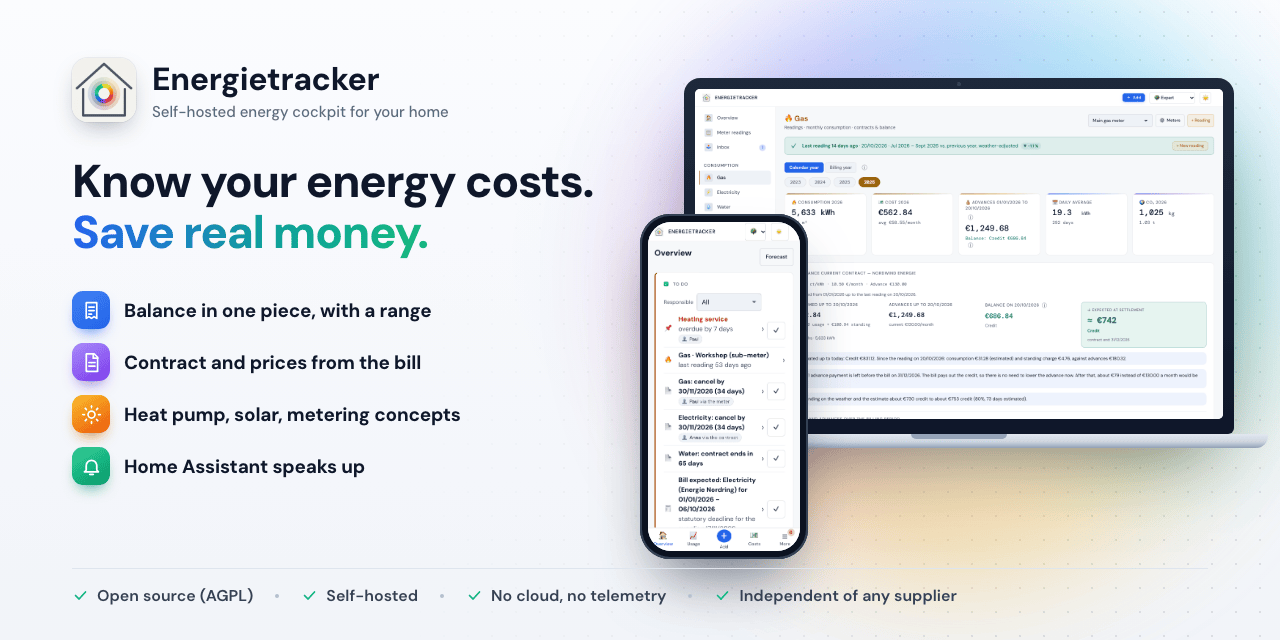
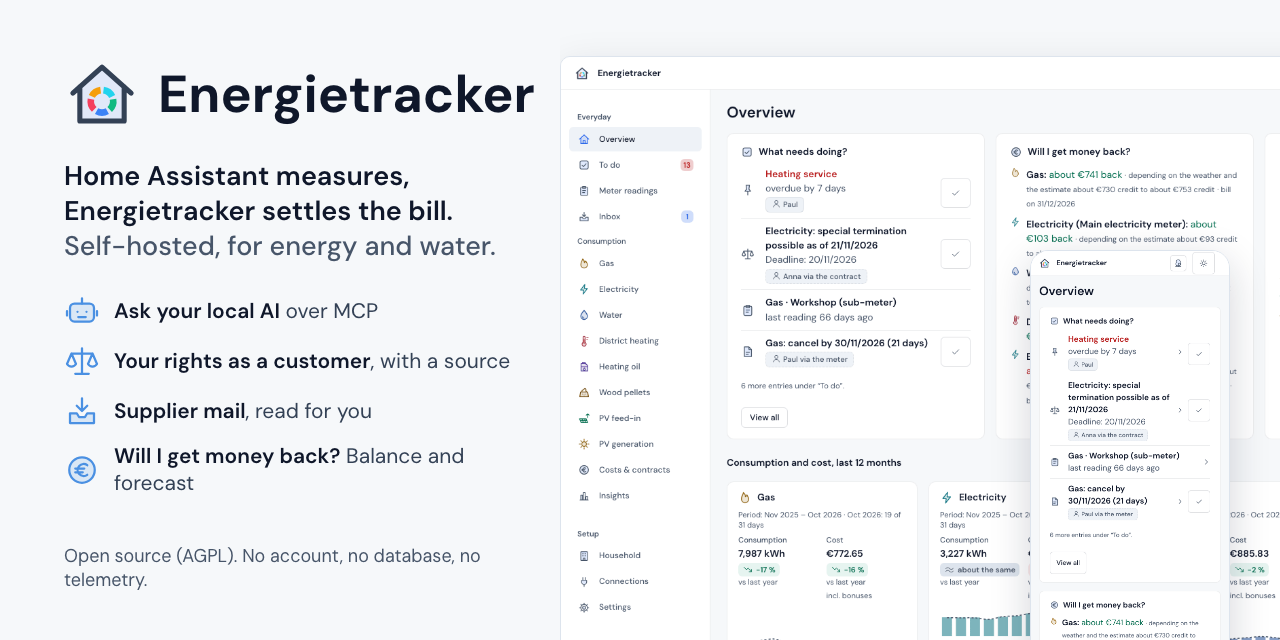
Nachlese 3.12.0: Social Preview aus M6, PHP 8.3 in Webserver und Tests, Version in SECURITY
- Social Preview: neue Vorlage und neues Bild (KI, Rechte, Post, Saldo), das alte zeigte noch Emoji-Menü
- Webserver und Tests nennen PHP 8.3 als Mindestversion und die CI mit 8.3 bis 8.5
- SECURITY: Version unten links in der Seitenleiste, englischer Teil verlinkt CHANGELOG.en.md
- README: iPhone-Bild auch dunkel, Bug-Vorlage mit 3.12.0, Banner nur noch für Beiträge
- CHANGELOG 3.12.0: Überschrift ohne Warnzeichen, Zeitreise ohne internen Skriptnamen

diff --git a/docs/assets/promo/social-preview.html b/docs/assets/promo/social-preview.html
@@ -2,175 +2,78 @@
 <html lang="en">
 <head>
 <meta charset="UTF-8">
-<title>Energietracker · Social preview</title>
+<title>Energietracker social preview</title>
 <!--
-  Social-Preview für GitHub (genau 1280 × 640 px, Settings → General →
-  Social preview; dort von Hand hochladen). Variante des Banners promo.html
-  mit weniger Text, damit sie auch klein lesbar bleibt.
-  Englisch ist Vorgabe, ?lang=de schaltet Texte und Bilder auf Deutsch.
-  Aufnahme: docs/entwicklung/screenshots.md → „Werbebilder“.
+  Social Preview für GitHub (seit v3.12.0), genau 1280 × 640 px; daraus entsteht social-preview.png,
+  das unter Settings › Social preview von Hand hochgeladen wird.
+  Eigene Grafiken: Logo (tools/build-logo.mjs), Symbole aus der App (icons/), Bild der neuen Übersicht
+  aus dem Beispielhaushalt (screens/). Keine Pillen, keine Verläufe, eine Schrift (DM Sans).
+  ?lang=de schaltet auf Deutsch (für Beiträge außerhalb von GitHub). Pfade relativ zu diesem Ordner.
 -->
 <style>
-  @font-face {
-    font-family: 'DM Sans';
-    font-style: normal;
-    font-weight: 100 1000;
-    src: url(../../../public/vendor/fonts/dm-sans.woff2) format('woff2');
-  }
-  :root {
-    --ink:    #0f172a;
-    --ink-2:  #334155;
-    --muted:  #5b6b82;
-    --paper:  #f6f8fa;
-    --line:   #dde4ed;
-    --gas:    #f59e0b;
-    --strom:  #22d3ee;
-    --wasser: #3b82f6;
-    --waerme: #f43f5e;
-    --oel:    #8b5cf6;
-    --pv:     #10b981;
-    --sonne:  #fbbf24;
-  }
+  @font-face { font-family: 'DM Sans'; font-weight: 100 1000; src: url(../../../public/vendor/fonts/dm-sans.woff2) format('woff2'); }
+  :root { --ink: #0f172a; --ink-2: #334155; --muted: #475569; --paper: #f6f8fa; --card: #ffffff; --line: #dde4ed; --accent: #2563eb; }
   * { margin: 0; padding: 0; box-sizing: border-box; }
   html, body { width: 1280px; height: 640px; overflow: hidden; }
-  body {
-    font-family: 'DM Sans', -apple-system, 'Segoe UI', Roboto, sans-serif;
-    color: var(--ink); background: var(--paper);
-    -webkit-font-smoothing: antialiased;
-  }
-  .banner {
-    position: relative; width: 1280px; height: 640px; overflow: hidden;
-    background:
-      radial-gradient(800px 520px at 78% 40%, rgba(37, 99, 235, .10), transparent 62%),
-      linear-gradient(180deg, #fbfcfe 0%, #f1f4f9 100%);
-  }
-  .dots {
-    position: absolute; inset: 0;
-    background-image: radial-gradient(rgba(15, 23, 42, .10) 1.2px, transparent 1.3px);
-    background-size: 24px 24px;
-    -webkit-mask-image: linear-gradient(90deg, transparent 32%, #000 78%);
-            mask-image: linear-gradient(90deg, transparent 32%, #000 78%);
-  }
-  .wheel {
-    position: absolute; width: 600px; height: 600px; left: 660px; top: -20px; border-radius: 50%;
-    background: conic-gradient(from 200deg, var(--gas), var(--waerme), var(--oel),
-      var(--wasser), var(--strom), var(--pv), var(--sonne), var(--gas));
-    filter: blur(60px); opacity: .38;
-  }
-  .wheel::after { content: ""; position: absolute; inset: 150px; border-radius: 50%; background: #f4f6fa; }
-
-  .copy { position: absolute; left: 72px; top: 58px; width: 560px; z-index: 5; }
-  .brand { display: flex; align-items: center; gap: 16px; margin-bottom: 34px; }
-  .brand img {
-    width: 64px; height: 64px; border-radius: 16px; display: block;
-    box-shadow: 0 10px 24px -8px rgba(15, 23, 42, .35), 0 0 0 1px rgba(15, 23, 42, .06);
-  }
-  .brand .name { font-size: 32px; font-weight: 750; letter-spacing: -.4px; }
-  .brand .eyebrow { display: block; font-size: 15px; font-weight: 500; color: var(--muted); margin-top: 2px; }
-  h1 { font-size: 46px; line-height: 1.1; font-weight: 800; letter-spacing: -1.4px; margin-bottom: 34px; white-space: nowrap; }
-  h1 .accent {
-    background: linear-gradient(92deg, #2563eb 0%, #0e9f9a 55%, #10b981 100%);
-    -webkit-background-clip: text; background-clip: text; color: transparent;
-  }
-  ul.points { list-style: none; display: grid; grid-template-columns: 1fr; gap: 14px; }
-  ul.points li { display: flex; gap: 14px; align-items: center; font-size: 19px; font-weight: 700; letter-spacing: -.2px; }
-  .ic { flex: 0 0 auto; width: 38px; height: 38px; border-radius: 11px; display: grid; place-items: center; }
-  .ic svg { width: 21px; height: 21px; stroke: #fff; fill: none; stroke-width: 2; stroke-linecap: round; stroke-linejoin: round; }
-  .ic.c1 { background: linear-gradient(150deg, #3b82f6, #2563eb); box-shadow: 0 8px 16px -8px #2563eb; }
-  .ic.c2 { background: linear-gradient(150deg, #34d399, #059669); box-shadow: 0 8px 16px -8px #059669; }
-  .ic.c3 { background: linear-gradient(150deg, #a78bfa, #7c3aed); box-shadow: 0 8px 16px -8px #7c3aed; }
-  .ic.c4 { background: linear-gradient(150deg, #fbbf24, #ea580c); box-shadow: 0 8px 16px -8px #ea580c; }
-
-  .strip {
-    position: absolute; left: 72px; right: 72px; bottom: 34px; z-index: 6;
-    display: flex; align-items: center; gap: 22px;
-    padding-top: 16px; border-top: 1px solid var(--line);
-    font-size: 16px; font-weight: 600; color: var(--ink-2);
-  }
-  .strip .it { display: flex; align-items: center; gap: 8px; white-space: nowrap; }
-  .strip svg { width: 17px; height: 17px; stroke: var(--pv); fill: none; stroke-width: 2.4; stroke-linecap: round; stroke-linejoin: round; }
-  .strip .sep { width: 4px; height: 4px; border-radius: 50%; background: #b8c2d0; }
-
-  .laptop { position: absolute; left: 684px; top: 78px; width: 550px; z-index: 3; }
-  .lid {
-    position: relative; background: linear-gradient(180deg, #1e293b, #0f172a);
-    border-radius: 16px 16px 6px 6px; padding: 11px 11px 15px;
-    box-shadow: 0 40px 70px -26px rgba(15, 23, 42, .55);
-  }
-  .lid::before { content: ""; position: absolute; top: 4px; left: 50%; width: 4px; height: 4px; margin-left: -2px; border-radius: 50%; background: #334155; }
-  .screen { border-radius: 5px; overflow: hidden; aspect-ratio: 16 / 10; background: #fff; }
-  .screen img { width: 100%; height: 100%; object-fit: cover; object-position: top left; display: block; }
-  .base {
-    position: relative; height: 14px; margin: 0 -34px;
-    background: linear-gradient(180deg, #e2e8f0 0%, #cbd5e1 55%, #94a3b8 100%);
-    border-radius: 2px 2px 12px 12px; box-shadow: 0 14px 24px -10px rgba(15, 23, 42, .45);
-  }
-  .base::before { content: ""; position: absolute; top: 0; left: 50%; width: 96px; height: 5px; margin-left: -48px; background: #94a3b8; border-radius: 0 0 6px 6px; }
-  .phone {
-    position: absolute; left: 640px; top: 214px; width: 168px; z-index: 4;
-    background: #0b1220; border-radius: 30px; padding: 8px;
-    box-shadow: 0 34px 60px -20px rgba(15, 23, 42, .6), 0 0 0 2px #334155 inset;
-  }
-  .phone .scr { border-radius: 23px; overflow: hidden; background: #fff; aspect-ratio: 375 / 812; }
-  .phone .scr img { width: 100%; height: 100%; object-fit: cover; object-position: top; display: block; }
+  body { font-family: 'DM Sans', sans-serif; color: var(--ink); background: var(--paper); -webkit-font-smoothing: antialiased; }
+  .wrap { display: grid; grid-template-columns: 560px 1fr; height: 100%; }
+  .left { padding: 56px 40px 48px 64px; display: flex; flex-direction: column; }
+  .brand { display: flex; align-items: center; gap: 18px; }
+  .brand img { width: 76px; height: 76px; }
+  .brand h1 { font-size: 52px; font-weight: 700; letter-spacing: 0; }
+  .claim { margin-top: 26px; font-size: 27px; line-height: 1.3; font-weight: 600; color: var(--ink); }
+  .claim span { color: var(--muted); font-weight: 500; }
+  ul { list-style: none; margin-top: 30px; display: grid; gap: 14px; }
+  li { display: grid; grid-template-columns: 36px 1fr; gap: 14px; align-items: center; font-size: 21px; line-height: 1.25; color: var(--ink-2); }
+  li img { width: 36px; height: 36px; }
+  li b { color: var(--ink); font-weight: 600; }
+  .foot { margin-top: auto; font-size: 18px; color: var(--muted); }
+  .right { position: relative; overflow: hidden; }
+  .shot { position: absolute; left: 0; top: 56px; width: 980px; border: 1px solid var(--line); border-radius: 10px; box-shadow: 0 12px 40px rgba(15, 23, 42, .12); }
+  .phone { position: absolute; left: 470px; top: 250px; width: 200px; border: 1px solid var(--line); border-radius: 18px; box-shadow: 0 12px 40px rgba(15, 23, 42, .18); }
 </style>
 </head>
 <body>
-  <div class="banner">
-    <div class="dots"></div>
-    <div class="wheel"></div>
-    <div class="copy">
-      <div class="brand">
-        <img src="../../../public/img/icon-light-180.png" alt="">
-        <div><span class="name">Energietracker</span><span class="eyebrow" data-t="eyebrow">Self-hosted energy cockpit for your home</span></div>
-      </div>
-      <h1><span data-t="h1a">Know your energy costs.</span><br><span class="accent" data-t="h1b">Save real money.</span></h1>
-      <ul class="points">
-        <li><span class="ic c1"><svg viewBox="0 0 24 24"><path d="M6 3h12v18l-3-2-3 2-3-2-3 2z"/><path d="M9 8h6M9 12h6M9 16h3"/></svg></span><span data-t="p1">Balance in one piece, with a range</span></li>
-        <li><span class="ic c3"><svg viewBox="0 0 24 24"><path d="M6 2h9l4 4v16H6z"/><path d="M14 2v5h5M9 12h7M9 16h7"/></svg></span><span data-t="p2">Contract and prices from the bill</span></li>
-        <li><span class="ic c4"><svg viewBox="0 0 24 24"><circle cx="12" cy="12" r="4"/><path d="M12 2v2M12 20v2M4.9 4.9l1.4 1.4M17.7 17.7l1.4 1.4M2 12h2M20 12h2M4.9 19.1l1.4-1.4M17.7 6.3l1.4-1.4"/></svg></span><span data-t="p3">Heat pump, solar, metering concepts</span></li>
-        <li><span class="ic c2"><svg viewBox="0 0 24 24"><path d="M6 16V11a6 6 0 0 1 12 0v5l2 2H4z"/><path d="M10 21h4"/></svg></span><span data-t="p4">Home Assistant speaks up</span></li>
-      </ul>
-    </div>
-    <div class="laptop">
-      <div class="lid"><div class="screen"><img data-shot="gas-view.png" src="../../ui/screenshots/en/gas-view.png" alt=""></div></div>
-      <div class="base"></div>
-    </div>
-    <div class="phone"><div class="scr"><img data-shot="navigation-iphone.png" src="../../ui/screenshots/en/navigation-iphone.png" alt=""></div></div>
-    <div class="strip">
-      <span class="it"><svg viewBox="0 0 24 24"><path d="M5 12l5 5 9-10"/></svg><span data-t="s1">Open source (AGPL)</span></span>
-      <span class="sep"></span>
-      <span class="it"><svg viewBox="0 0 24 24"><path d="M5 12l5 5 9-10"/></svg><span data-t="s2">Self-hosted</span></span>
-      <span class="sep"></span>
-      <span class="it"><svg viewBox="0 0 24 24"><path d="M5 12l5 5 9-10"/></svg><span data-t="s3">No cloud, no telemetry</span></span>
-      <span class="sep"></span>
-      <span class="it"><svg viewBox="0 0 24 24"><path d="M5 12l5 5 9-10"/></svg><span data-t="s4">Independent of any supplier</span></span>
-    </div>
+<div class="wrap">
+  <div class="left">
+    <div class="brand"><img src="logo.svg" alt=""><h1>Energietracker</h1></div>
+    <p class="claim" data-t="claim"></p>
+    <ul>
+      <li><img src="icons/ki.svg" alt=""><span data-t="ai"></span></li>
+      <li><img src="icons/waage.svg" alt=""><span data-t="rights"></span></li>
+      <li><img src="icons/eingang.svg" alt=""><span data-t="inbox"></span></li>
+      <li><img src="icons/geld.svg" alt=""><span data-t="balance"></span></li>
+    </ul>
+    <p class="foot" data-t="foot"></p>
   </div>
-  <script>
-    /* Englisch ist Vorgabe; ?lang=de schaltet Texte und Screenshots um. */
-    const TEXT = {
-      en: {
-        eyebrow: 'Self-hosted energy cockpit for your home',
-        h1a: 'Know your energy costs.', h1b: 'Save real money.',
-        p1: 'Balance in one piece, with a range', p2: 'Contract and prices from the bill',
-        p3: 'Heat pump, solar, metering concepts', p4: 'Home Assistant speaks up',
-        s1: 'Open source (AGPL)', s2: 'Self-hosted', s3: 'No cloud, no telemetry', s4: 'Independent of any supplier',
-      },
-      de: {
-        eyebrow: 'Das Energie-Cockpit für dein Zuhause, selbst gehostet',
-        h1a: 'Energiekosten verstehen.', h1b: 'Bares Geld sparen.',
-        p1: 'Saldo aus einem Guss, mit Spanne', p2: 'Vertrag und Preise aus der Rechnung',
-        p3: 'Wärmepumpe, PV, Messkonzepte', p4: 'Home Assistant meldet sich',
-        s1: 'Open Source (AGPL)', s2: 'Selbst gehostet', s3: 'Keine Cloud, keine Telemetrie', s4: 'Unabhängig von Anbietern',
-      },
-    };
-    const lang = new URLSearchParams(location.search).get('lang') === 'de' ? 'de' : 'en';
-    document.documentElement.lang = lang;
-    document.querySelectorAll('[data-t]').forEach((n) => { n.textContent = TEXT[lang][n.dataset.t]; });
-    document.querySelectorAll('img[data-shot]').forEach((i) => {
-      i.src = '../../ui/screenshots/' + (lang === 'en' ? 'en/' : '') + i.dataset.shot;
-    });
-  </script>
+  <div class="right">
+    <img class="shot" data-src="uebersicht" alt="">
+    <img class="phone" data-src="iphone" alt="">
+  </div>
+</div>
+<script>
+  const TEXT = {
+    en: {
+      claim: 'Home Assistant measures, Energietracker settles the bill. <span>Self-hosted, for energy and water.</span>',
+      ai: '<b>Ask your local AI</b> over MCP',
+      rights: '<b>Your rights as a customer</b>, with a source',
+      inbox: '<b>Supplier mail</b>, read for you',
+      balance: '<b>Will I get money back?</b> Balance and forecast',
+      foot: 'Open source (AGPL). No account, no database, no telemetry.',
+    },
+    de: {
+      claim: 'Home Assistant misst, der Energietracker rechnet ab. <span>Selbst gehostet, für Energie und Wasser.</span>',
+      ai: '<b>Frag deine KI im Heimnetz</b>, über MCP',
+      rights: '<b>Deine Rechte als Kunde</b>, mit Quelle',
+      inbox: '<b>Post vom Versorger</b>, für dich ausgelesen',
+      balance: '<b>Bekomme ich Geld zurück?</b> Saldo und Prognose',
+      foot: 'Open Source (AGPL). Kein Konto, keine Datenbank, keine Telemetrie.',
+    },
+  };
+  const lang = new URLSearchParams(location.search).get('lang') === 'de' ? 'de' : 'en';
+  document.documentElement.lang = lang;
+  for (const el of document.querySelectorAll('[data-t]')) el.innerHTML = TEXT[lang][el.dataset.t];
+  for (const el of document.querySelectorAll('[data-src]')) el.src = `screens/${el.dataset.src}.${lang}.png`;
+</script>
 </body>
 </html>

diff --git a/CHANGELOG.en.md b/CHANGELOG.en.md
@@ -33,7 +33,7 @@ and the Docker environment only grow additively; where a status code or an addre
   rule**, in the backup import too. Examples old → new under “Changed”. Files holding access secrets are readable
   by the web server only.
 
-### ⚠ For existing installations
+### For existing installations
 
 - **PHP 8.3 is now the minimum version** (was 8.2). This only affects running on your own web server; the
   Docker image and the Home Assistant app bring their own PHP (8.5). PHP 8.2 only receives security updates
@@ -641,7 +641,7 @@ permissions on the first request after the update; for rootless Docker with a ch
   by hand), `ScenarioPvTest` (range and quarter-hours), `BillingWindowTest`; a comparison old against new keeps
   forecast and balance byte-identical.
 - **Reference date:** `StichtagReadingsTest`; the whole round runs locally with the clock moved (+3 to +365 days,
-  29 February, New Year’s Eve, clock change) with `zeitreise.sh`.
+  29 February, New Year’s Eve, clock change) with libfaketime.
 - **Rights, letters, inbox:** `LetterContractTest`, `LetterDataTest`, `LetterShowcaseTest`,
   `McpLetterDocumentsTest`, `McpFindingMaskTest`, `HomeAssistantNotifyForeignTextTest`, `RightsBillChecksTest`
   (receipt, soft zone, limits of the metering charge), `InboxEvidenceBoundaryTest`, `InboxBillRightsTest`,

diff --git a/CHANGELOG.md b/CHANGELOG.md
@@ -34,7 +34,7 @@ bestehende Installationen“.
   geprüft nach einer Regel**, auch im Backup-Import. Beispiele alt → neu unter „Changed“. Dateien mit
   Zugangsgeheimnissen liest nur noch der Webserver.
 
-### ⚠ Für bestehende Installationen
+### Für bestehende Installationen
 
 - **PHP 8.3 ist jetzt die Mindestversion** (bisher 8.2). Betrifft nur den Betrieb auf einem eigenen Webserver;
   Docker-Image und Home-Assistant-App bringen ihr PHP mit (8.5). PHP 8.2 bekommt nur noch Sicherheitsupdates
@@ -652,7 +652,7 @@ UID siehe oben.
   gerechnet), `ScenarioPvTest` (Spanne und Viertelstunden), `BillingWindowTest`; ein Vergleich alt gegen neu hält
   Prognose und Saldo byte-gleich.
 - **Stichtag:** `StichtagReadingsTest`; die ganze Runde läuft lokal unter verstellter Uhr (+3 bis +365 Tage,
-  29. Februar, Silvester, Zeitumstellung) mit `zeitreise.sh`.
+  29. Februar, Silvester, Zeitumstellung) mit libfaketime.
 - **Rechte, Briefe, Posteingang:** `LetterContractTest`, `LetterDataTest`, `LetterShowcaseTest`,
   `McpLetterDocumentsTest`, `McpFindingMaskTest`, `HomeAssistantNotifyForeignTextTest`, `RightsBillChecksTest`
   (Zugang, Weichzone, Grenzen des Messentgelts), `InboxEvidenceBoundaryTest`, `InboxBillRightsTest`,

diff --git a/SECURITY.md b/SECURITY.md
@@ -10,7 +10,8 @@ privately via GitHub instead:
 
 Helpful details:
 
-- affected version (`VERSION` file or the version shown in the app header),
+- affected version (`VERSION` file or the version shown at the bottom left of
+  the sidebar, on the iPhone under “More”),
 - the operating mode (Docker, Apache/Synology, other) and whether sign-in is
   switched on,
 - steps to reproduce, and what an attacker gains.
@@ -22,7 +23,7 @@ possible. Please allow time for a fix before publishing details.
 ## Supported versions
 
 Fixes are made on the latest release. Please update before reporting — the
-[CHANGELOG](CHANGELOG.md) lists what changed.
+[CHANGELOG](CHANGELOG.en.md) lists what changed.
 
 ## Container image: scans and deadlines
 
@@ -82,7 +83,8 @@ vertraulich über GitHub melden:
 
 Hilfreich sind:
 
-- die betroffene Version (Datei `VERSION` oder die Anzeige in der Kopfleiste),
+- die betroffene Version (Datei `VERSION` oder die Anzeige unten links in der
+  Seitenleiste, am iPhone unter „Mehr“),
 - die Betriebsart (Docker, Apache/Synology, andere) und ob die Anmeldung
   eingeschaltet ist,
 - die Schritte zum Nachstellen und was ein Angreifer damit erreicht.

diff --git a/docs/entwicklung/tests.md b/docs/entwicklung/tests.md
@@ -535,10 +535,10 @@ Genau diese Sequenz läuft automatisiert in der **CI-Pipeline**
 `main`. Vier Jobs: **lint-php** (Syntax-Check aller `*.php`),
 **phpunit** (Service-Suite), **test** (Migrations-Smoke +
 Frontend-API-Shape + Browser-Render über `router.php`) und **docker**
-(Image bauen + Container-Smoke gegen `/api/health`). Seit v3.1.0 laufen
-**lint-php** und **phpunit** je unter PHP 8.2, 8.3 und 8.4 — der
-Mindestversion, der Version von Ubuntu 24.04 und der im Docker-Image; seit
-v3.4.0 auch unter 8.5 (dem Docker-Image). Der Job **docker** prüft seit v3.4.0
+(Image bauen + Container-Smoke gegen `/api/health`). **lint-php** und
+**phpunit** laufen seit v3.12.0 je unter PHP 8.3, 8.4 und 8.5: der
+Mindestversion (auch die von Ubuntu 24.04), 8.4 wie etwa in der Synology Web
+Station und 8.5 wie im Docker-Image. Der Job **docker** prüft seit v3.4.0
 zusätzlich, dass php-fpm nur im Container erreichbar ist, und startet das Image
 gehärtet (Beispiel aus [Docker-Betrieb](../betrieb/docker.md#gehärteter-betrieb-v340)),
 seit v3.5.0 auch die Variante ohne root (`--target rootless`: ohne

diff --git a/docs/en/entwicklung/tests.md b/docs/en/entwicklung/tests.md
@@ -514,9 +514,9 @@ This exact sequence runs automated in the **CI pipeline**
 jobs: **lint-php** (syntax check of all `*.php`), **phpunit** (service suite),
 **test** (migration smoke + frontend API shape + browser render via `router.php`)
 and **docker** (build image + container smoke against `/api/health`). Since
-v3.1.0 **lint-php** and **phpunit** each run under PHP 8.2, 8.3 and 8.4 — the
-minimum version, the version in Ubuntu 24.04 and the one in the Docker image;
-since v3.4.0 also under 8.5 (the Docker image). Since v3.4.0 the **docker** job
+v3.12.0 **lint-php** and **phpunit** each run under PHP 8.3, 8.4 and 8.5: the
+minimum version (also the one in Ubuntu 24.04), 8.4 as in Synology Web Station,
+for example, and 8.5 as in the Docker image. Since v3.4.0 the **docker** job
 also checks that php-fpm is only reachable inside the container and starts the
 image hardened (example from [Docker operation](../betrieb/docker.md#hardened-operation-v340)),
 since v3.5.0 also the variant without root (`--target rootless`: no

diff --git a/README.de.md b/README.de.md
@@ -43,7 +43,7 @@ Niederländisch. Dazu Zählertausch, Subzähler, Messkonzepte mit Wärmepumpe un
 Heizgradtagen, Mietverhältnis und eine Hilfe in der App mit Glossar und ⓘ neben Fachbegriffen.
 → [Alle Funktionen](docs/einstieg/funktionen.md) · [Alle Ansichten mit Bildern](docs/referenz/ansichten.md)
 
-<p align="center"><img src="docs/ui/screenshots/gas-view.png" alt="Gas: Saldo, Verbrauch und Kosten mit Trend und Monatsdiagramm" width="560"> <img src="docs/assets/promo/screens/iphone.de.png" alt="Übersicht am iPhone" width="200"></p>
+<p align="center"><img src="docs/ui/screenshots/gas-view.png" alt="Gas: Saldo, Verbrauch und Kosten mit Trend und Monatsdiagramm" width="560"> <picture><source media="(prefers-color-scheme: dark)" srcset="docs/assets/promo/screens/iphone-dunkel.de.png"><img src="docs/assets/promo/screens/iphone.de.png" alt="Übersicht am iPhone" width="200"></picture></p>
 
 ## Schnellstart
 

diff --git a/README.md b/README.md
@@ -43,7 +43,7 @@ swaps, sub-meters, metering concepts with heat pump and peak/off-peak, weather a
 tenancy and in-app help with a glossary and an ⓘ next to technical terms.
 → [All features](docs/en/einstieg/funktionen.md) · [All views with pictures](docs/en/referenz/ansichten.md)
 
-<p align="center"><img src="docs/ui/screenshots/en/gas-view.png" alt="Gas: balance, consumption and cost with trend and monthly chart" width="560"> <img src="docs/assets/promo/screens/iphone.en.png" alt="Overview on the iPhone" width="200"></p>
+<p align="center"><img src="docs/ui/screenshots/en/gas-view.png" alt="Gas: balance, consumption and cost with trend and monthly chart" width="560"> <picture><source media="(prefers-color-scheme: dark)" srcset="docs/assets/promo/screens/iphone-dunkel.en.png"><img src="docs/assets/promo/screens/iphone.en.png" alt="Overview on the iPhone" width="200"></picture></p>
 
 ## Quick start
 

diff --git a/docs/entwicklung/screenshots.md b/docs/entwicklung/screenshots.md
@@ -179,8 +179,8 @@ die Werbebilder. Das Verzeichnis gehört nicht ins Docker-Image
 
 | Datei | Vorlage | Größe | Sprache |
 |---|---|---|---|
-| `banner.png` | `promo.html` | 1720 × 860 | Englisch, im README mit `width="860"` |
-| `banner.de.png` | `promo.html?lang=de` | 1720 × 860 | Deutsch, in README.de.md |
+| `banner.png` | `promo.html` | 1720 × 860 | Englisch, für Beiträge (seit v3.12.0 nicht mehr im README) |
+| `banner.de.png` | `promo.html?lang=de` | 1720 × 860 | Deutsch, für Beiträge (seit v3.12.0 nicht mehr im README) |
 | `social-preview.png` | `social-preview.html` | 1280 × 640 | Englisch |
 
 1. **Statisch ausliefern**, damit die relativen Pfade (Screenshots, Schrift

diff --git a/docs/en/entwicklung/screenshots.md b/docs/en/entwicklung/screenshots.md
@@ -178,8 +178,8 @@ checks this).
 
 | File | Template | Size | Language |
 |---|---|---|---|
-| `banner.png` | `promo.html` | 1720 × 860 | English, in the README with `width="860"` |
-| `banner.de.png` | `promo.html?lang=de` | 1720 × 860 | German, in README.de.md |
+| `banner.png` | `promo.html` | 1720 × 860 | English, for posts (not in the README since v3.12.0) |
+| `banner.de.png` | `promo.html?lang=de` | 1720 × 860 | German, for posts (not in the README since v3.12.0) |
 | `social-preview.png` | `social-preview.html` | 1280 × 640 | English |
 
 1. **Serve statically** so that the relative paths (screenshots, font from

diff --git a/docs/en/betrieb/webserver.md b/docs/en/betrieb/webserver.md
@@ -79,7 +79,7 @@ relative.
 
 ### Synology Web Station
 
-- **Web Station → Web service**: Apache 2.4 with a PHP profile from 8.2 (8.4
+- **Web Station → Web service**: Apache 2.4 with a PHP profile from 8.3 (8.4
   if offered); put the folder under `web/`. The `.htaccess` is honoured there.
 - The user `http` needs write permission on `data/` (File Station → Properties →
   Permission).

diff --git a/docs/betrieb/webserver.md b/docs/betrieb/webserver.md
@@ -80,7 +80,7 @@ relativ.
 
 ### Synology Web Station
 
-- **Web Station → Webdienst**: Apache 2.4 mit einem PHP-Profil ab 8.2 (8.4,
+- **Web Station → Webdienst**: Apache 2.4 mit einem PHP-Profil ab 8.3 (8.4,
   wenn angeboten); den Ordner
   unter `web/` ablegen. Die `.htaccess` greift dort.
 - Der Benutzer `http` braucht Schreibrecht auf `data/` (File Station →
